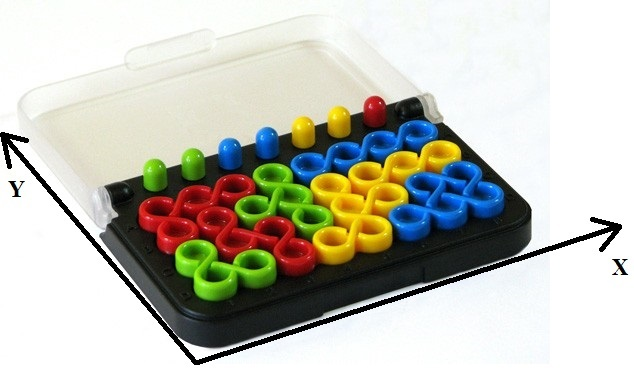
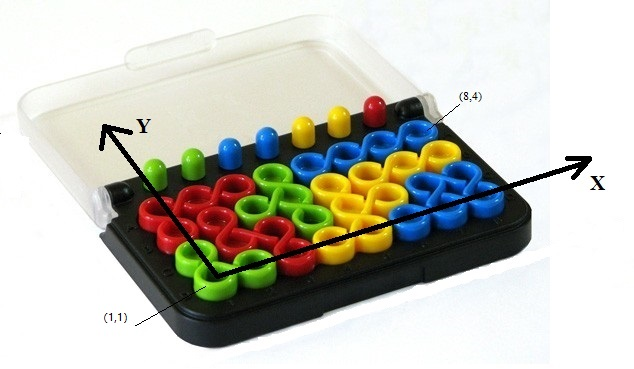
update the thesis

diff --git a/report/design.tex b/report/design.tex
@@ -8,6 +8,7 @@ Y=M.X,
 \end{equation}
 where $X$ is the input vector, $M$ is the rotation matrix and $Y$ is the output vector \cite{r15}. Therefore, the rotation matrices can be used to mathematically define rotations that can describe the placements for the pieces of the two games. The 2D rotation matrix is corresponding to IQ twist and the 3D rotation matrix is corresponding to ZIG ZAG Puzzler. In our case, only counter-clockwise rotations of 90, 180 and 270 degrees for both 2D (the xy-plane) and 3D (the xy-plane, the yz-plane and the xz-plane) will be considered.
 \subsection{2D Rotation Matrix}
+\label{section:2Drotationmatrix}
 Tobias and Krantz \cite{r9} mention that 2D rotation can be described by a matrix
 \begin{equation}
 R(\theta)=\begin{bmatrix}
@@ -55,6 +56,7 @@ In IQ twist, there exists mirroring operation, if a point flip over around the y
 \end{itemize}
 Therefore, there should be total 8 situations for each unit of pieces. However, there might be some special situations like x=1, y=1. In such a case, according to the 8 formulas, there are only 4 situations because 4 of them are repeated.
 \subsection{3D Rotation Matrix}
+\label{section:3Drotationmatrix}
 There are two forms to represent 3D rotations \cite{r9}. One is 3 separated matrices,
 \begin{equation}
 \begin{aligned}
@@ -180,7 +182,23 @@ and for $\beta=270^{\circ}$,
 &z'=x.
 \end{aligned}
 \end{equation}
-Because in our case, the domains of both $\alpha$ and $\gamma$ are $0^{\circ}$, $90^{\circ}$, $180^{\circ}$, $270^{\circ}$ and the period of the trigonometric function is $360^{\circ}$. For (3.14), the 4 situations are $\alpha-\gamma$=$0^{\circ}$ or $90^{\circ}$ or $180^{\circ}$ or $270^{\circ}$. For (3.15), the 4 situations are $\alpha+\gamma$=$0^{\circ}$ or $90^{\circ}$ or $180^{\circ}$ or $270^{\circ}$. Therefore, these 2 groups of formulas represent that there are only 4 situations for each of them. In other words, the separated $\alpha$ and $\gamma$ are meaningless. What we should consider is $\alpha-\gamma$ for (3.14) and $\alpha+\gamma$ for (3.15).\\ 
+Because in our case, the domains of both $\alpha$ and $\gamma$ are $0^{\circ}$, $90^{\circ}$, $180^{\circ}$, $270^{\circ}$ and the period of the trigonometric function is $360^{\circ}$. For (3.14), the 4 situations are $\alpha-\gamma$=$0^{\circ}$ or $90^{\circ}$ or $180^{\circ}$ or $270^{\circ}$. For (3.15), the 4 situations are $\alpha+\gamma$=$0^{\circ}$ or $90^{\circ}$ or $180^{\circ}$ or $270^{\circ}$.
+Therefore, these 2 groups of formulas represent that there are only 4 situations for each of them. In other words, the separated $\alpha$ and $\gamma$ are meaningless. What we should consider is $\alpha-\gamma$ for (3.14) and $\alpha+\gamma$ for (3.15). For (3.14), we assign 0,90,180 and 270 degrees to the $(\alpha-\gamma)$, we get
+\begin{itemize}
+  \item  $x'=-y\sin(0^{\circ})-z\cos(0^{\circ}),\hspace{5pt} y'=y\cos(0^{\circ})+z\sin(0^{\circ}),\hspace{5pt} z'=-x \\\implies x'=-z,\hspace{5pt} y'=y,\hspace{5pt} z'=-x$
+  \item  $x'=-y\sin(90^{\circ})-z\cos(90^{\circ}), \hspace{5pt} y'=y\cos(90^{\circ})+z\sin(90^{\circ}), \hspace{5pt} z'=-x\\\implies x'=-y,\hspace{5pt} y'=z,\hspace{5pt} z'=-x$
+  \item  $x'=-y\sin(180^{\circ})-z\cos(180^{\circ}), \hspace{5pt} y'=y\cos(180^{\circ})+z\sin(180^{\circ}), \hspace{5pt} z'=-x\\\implies x'=z,\hspace{5pt} y'=-y,\hspace{5pt} z'=-x$
+  \item  $x'=-y\sin(270^{\circ})-z\cos(270^{\circ}), \hspace{5pt} y'=y\cos(270^{\circ})+z\sin(270^{\circ}), \hspace{5pt} z'=-x\\\implies x'=y, \hspace{5pt}y'=-z,\hspace{5pt} z'=-x$.
+  \label{3Drotation24situations1}
+\end{itemize}
+For (3.15), we assign 0,90,180 and 270 degrees to the $(\alpha+\gamma)$, we get
+\begin{itemize}
+  \item  $x'=-y\sin(0^{\circ})-z\cos(0^{\circ}),\hspace{5pt} y'=y\cos(0^{\circ})-z\sin(0^{\circ}),\hspace{5pt} z'=-x \\\implies x'=-z,\hspace{5pt} y'=y,\hspace{5pt} z'=x$
+  \item  $x'=-y\sin(90^{\circ})-z\cos(90^{\circ}),\hspace{5pt} y'=y\cos(90^{\circ})-z\sin(90^{\circ}),\hspace{5pt} z'=-x\\\implies x'=-y,\hspace{5pt} y'=-z,\hspace{5pt} z'=x$
+  \item  $x'=-y\sin(180^{\circ})-z\cos(180^{\circ}),\hspace{5pt} y'=y\cos(180^{\circ})-z\sin(180^{\circ}),\hspace{5pt} z'=-x\\\implies x'=z,\hspace{5pt} y'=-y,\hspace{5pt} z'=x$
+  \item  $x'=-y\sin(270^{\circ})-z\cos(270^{\circ}),\hspace{5pt} y'=y\cos(270^{\circ})-z\sin(270^{\circ}),\hspace{5pt} z'=-x\\\implies x'=y, \hspace{5pt}y'=z,\hspace{5pt} z'=x$.
+  \label{3Drotation24situations2}
+\end{itemize}
 Then, we consider  $\beta=0^{\circ}$ and $\beta=180^{\circ}$. Based on (3.6), when $\beta=0^{\circ}$, we get
 \begin{equation}
 R=R_{z}(\alpha)R_{y}(0^{\circ})R_{x}(\gamma)=
@@ -226,11 +244,29 @@ which means that when $\beta=0^{\circ}$, regardless of the number of degrees of 
 &\circled{1},\circled{2}\implies R_{z}(270^{\circ})Ry(0^{\circ})R_{x}(270^{\circ})   = R_{z}(90^{\circ})R_{y}(180^{\circ})R_{x}(90^{\circ}).
 \end{aligned}
 \end{equation}
-Hence, all combinations among $\beta=0^{\circ}$, $\theta=0^{\circ}$ or $90^{\circ}$ or $180^{\circ}$ or $270^{\circ}$ and $\gamma=0^{\circ}$ or $90^{\circ}$ or $180^{\circ}$ or $270^{\circ}$ can be obtained from one combination among $\beta=180^{\circ}$, $\theta=0^{\circ}$ or $90^{\circ}$ or $180^{\circ}$ or $270^{\circ}$ and $\gamma=0^{\circ}$ or $90^{\circ}$ or $180^{\circ}$ or $270^{\circ}$. So we only need to consider the all situations when $\beta=0^{\circ}$ because the all situations in $\beta=180^{\circ}$ are duplicates. There should be a total of 16 situations (4$\times$4). Finally, consider the all situations in $\beta=90^{\circ}$,$\beta=270^{\circ}$,$\beta=^{\circ}0$ and $\beta=180^{\circ}$. There should be a total of 4+4+16=24 situations.
+Hence, all combinations among $\beta=0^{\circ}$, $\theta=0^{\circ}$ or $90^{\circ}$ or $180^{\circ}$ or $270^{\circ}$ and $\gamma=0^{\circ}$ or $90^{\circ}$ or $180^{\circ}$ or $270^{\circ}$ can be obtained from one combination among $\beta=180^{\circ}$, $\theta=0^{\circ}$ or $90^{\circ}$ or $180^{\circ}$ or $270^{\circ}$ and $\gamma=0^{\circ}$ or $90^{\circ}$ or $180^{\circ}$ or $270^{\circ}$. So we only need to consider the all situations when $\beta=0^{\circ}$ because the all situations in $\beta=180^{\circ}$ are duplicates. For (3.16) we assign $\theta=0^{\circ},\gamma=0^{\circ}$, $\theta=0^{\circ},\gamma=90^{\circ}$,...,$\theta=270^{\circ},\gamma=180^{\circ}$, $\theta=270^{\circ},\gamma=270^{\circ}$. we get
+\begin{itemize}
+  \item  $x'=x$, $y'=y$, $z'=z$  
+  \item  $x'=x$, $y'=-z$, $z'=y$ 
+  \item  $x'=x$, $y'=-y$, $z'=-z$ 
+  \item  $x'=x$, $y'=z$, $z'=-y$
+  \item  $x'=-y$, $y'=x$, $z'=z$
+  \item  $x'=z$, $y'=x$, $z'=y$
+  \item  $x'=y$, $y'=x$, $z'=-z$
+  \item  $x'=-z$, $y'=x$, $z'=-y$
+  \item  $x'=-x$, $y'=-y$, $z'=z$
+  \item  $x'=-x$, $y'=z$, $z'=y$
+  \item  $x'=-x$, $y'=y$, $z'=-z$
+  \item  $x'=-x$, $y'=-z$, $z'=-y$
+  \item  $x'=y$, $y'=-x$, $z'=z$
+  \item  $x'=-z$, $y'=-x$, $z'=y$
+  \item  $x'=-y$, $y'=-x$, $z'=-z$
+  \item  $x'=z$, $y'=-x$, $z'=-y$.
+  \label{3Drotation24situations3}
+\end{itemize}
+There should be a total of 16 situations (4$\times$4). Finally, consider the all situations in $\beta=90^{\circ}$,$\beta=270^{\circ}$,$\beta=^{\circ}0$ and $\beta=180^{\circ}$. There should be a total of 4+4+16=24 situations.
 \section{IQ Twist}
-In this part, the design of CSP model for IQ twist will be discussed. 
-\subsection{Variables}
-Above all, the initial state of each piece is defined in Figure~\ref{fig:allinit}. For this method, there are some rules. Firstly, all the variables are corresponding to the specific units. Such as the yellow2, Figure~\ref{fig:namerules} shows that the $V_{y21}$ is used to represent the left and bottom unit. For other variables, we name them as $V_{y22}$, $V_{y23}$, $V_{y24}$ and $V_{y25}$, which follows the order from left to right and bottom-up. In addition, there are 7 pegs. Therefore, the variables can be represented as \VUnits and \VPegs.
+In this part, the design of CSP model for IQ twist will be discussed. Above all, the initial state of each piece is defined in Figure~\ref{fig:allinit}.
 \begin{figure}[htbp]
 \begin{subfigure}[b]{.24\textwidth}
 \centering
@@ -283,35 +319,44 @@ Above all, the initial state of each piece is defined in Figure~\ref{fig:allinit
 \caption{Initial state of each piece}
   \label{fig:allinit}
 \end{figure}
+\subsection{Variables}
+ For this model, there are some rules. Firstly, all the variables are corresponding to the specific units. As an example, for piece yellow2, Figure~\ref{fig:namerules} shows that the $V_{y21}$ is used to represent the left and bottom unit. For other variables, we name them as $V_{y22}$, $V_{y23}$, $V_{y24}$ and $V_{y25}$, which follows the order from left to right and bottom-up. In addition, there are 7 pegs. Therefore, the variables can be represented as \VUnits and \VPegs,
+\begin{equation}
+\begin{aligned}
+\VUnits=\{&V_{y11},V_{y12},V_{y13},\\&V_{y21},V_{y22},V_{y23},V_{y24},V_{y25},\\&V_{b11},V_{b12},V_{b13},V_{b14},
+V_{b15},\\&V_{b21},V_{b22},V_{b23},V_{b24},\\&V_{g11},V_{g12},V_{g13},V_{g14},\\&V_{g21},V_{g22},V_{g23},\\&V_{r11},
+V_{r12},V_{r13},V_{r14},\\&V_{r21},V_{r22},V_{r23},V_{r24}\},\\
+\\\VPegs = \{&V_{py1}, V_{py2}, V_{pb1}, V_{pb2}, V_{pg1}, V_{pg2}, V_{pr}\},\\
+\\V = &\VUnits \cup \VPegs.
+\end{aligned}
+\end{equation}
 \begin{figure}[htbp]
     \centering
     \includegraphics[width=0.3\textwidth]{figs/example.jpg}
     \caption{Name rules for yellow2}
     \label{fig:namerules}
 \end{figure}
-\begin{equation}
-\begin{aligned}
-\VUnits=\{&V_{y11},V_{y12},V_{y13},\\&V_{y21},V_{y22},V_{y23},V_{y24},V_{y25},\\&V_{b11},V_{b12},V_{b13},V_{b14},
-V_{b15},\\&V_{b21},V_{b22},V_{b23},V_{b24},\\&V_{g11},V_{g12},V_{g13},V_{g14},\\&V_{g21},V_{g22},V_{g23},\\&V_{r11},
-V_{r12},V_{r13},V_{r14},\\&V_{r21},V_{r22},V_{r23},V_{r24}\}\\
-\\\VPegs = \{&V_{py1}, V_{py2}, V_{pb1}, V_{pb2}, V_{pg1}, V_{pg2}, V_{pr}\}\\
-\\V = &\VUnits \cup \VPegs.
-\end{aligned}
-\end{equation}
 \subsection{Domains}
-For the board, Figure~\ref{fig:coordinate} shows that the 2D coordinate system is used to represent the positions. In our model, the left and bottom position as (0,0) and the right and top as (8,4). So, all placements will be between them. The pegs are special because they can be put in any places on the board or not on the board.
 \begin{figure}[htbp]
 \centering
 \includegraphics[width=0.8\textwidth]{figs/IQtwistboard.jpg}
 \caption{The coordinate system for IQ twist}
     \label{fig:coordinate}
 \end{figure}
+For the board, Figure~\ref{fig:coordinate} shows that the 2D coordinate system is used to represent the positions. In our model, all positions are represented as tuples and the elements in the tuples are int. And each tuple contains 2 int. The left and bottom position as $(1,1)$ and the right and top as $(8,4)$. So, all placements will be between them. Considering a position $(x_{0},y_{0})$, we get
 \begin{equation}
 \begin{aligned}
-&\forall  v \in \VUnits \hspace{1ex},\hspace{1ex} D(v)=\{(i,j) \in \mathbb{Z} \times \mathbb{Z}	\mid  0<i \leq 8 \hspace{1ex} , \hspace{1ex} 0<j \leq 4\}\\
-\\
-&\forall  v \in \VPegs \hspace{1ex},\hspace{1ex} D(v)=\{(0,0)\} \hspace{1ex} \cup \hspace{1ex}\{(i,j) \in \mathbb{Z} \times \mathbb{Z}\mid  0<i \leq 8 \hspace{1ex} , \hspace{1ex} 0<j \leq 4\}
+&0<x_{0} \leq 8\\
+&0<y_{0} \leq 4.
 \end{aligned}
+\end{equation}
+The placements for each unit of pieces must on the board, therefore, we get
+\begin{equation}
+\forall  v \in \VUnits \hspace{1ex},\hspace{1ex} D(v)=\{(i,j) \in \mathbb{Z} \times \mathbb{Z}	\mid  0<i \leq 8 \hspace{1ex} , \hspace{1ex} 0<j \leq 4\}.\\
+\end{equation}
+The pegs are special because they can be put in any places on the board or not on the board. So, the domain of pegs is
+\begin{equation}
+\forall  v \in \VPegs \hspace{1ex},\hspace{1ex} D(v)=\{(0,0)\} \hspace{1ex} \cup \hspace{1ex}\{(i,j) \in \mathbb{Z} \times \mathbb{Z}\mid  0<i \leq 8 \hspace{1ex} , \hspace{1ex} 0<j \leq 4\}.
 \end{equation}
 \subsection{Constrains}
 Firstly, there should be no 2 different unit variables contain the same value
@@ -329,17 +374,17 @@ Similarly, there should be no 2 different reg variables contain the same value e
 &\{((0,0),(0,0))\}.
 \end{aligned}
 \end{equation}
-In Figure~\ref{fig:explanation2D}, the unit which is corresponding to the first variable ($V_{y21}$) will be considered as a point $(x,y)$. Therefore, the $V_{y21}$, $V_{y22}$, $V_{y23}$, $V_{y24}$ and $V_{y25}$ are respectively represented as $(x,y)$, $(x+1,y)$, $(x+1,x+1)$, $(x+2,y+1)$ and $(x+1,y+2)$, which indicates that all other variables are connection with the first variables.
+In Figure~\ref{fig:explanation2D}, the unit which is corresponding to the first variable ($V_{y21}$) will be considered as a point $(x,y)$. Therefore, the $V_{y21}$, $V_{y22}$, $V_{y23}$, $V_{y24}$ and $V_{y25}$ are respectively represented as $(x,y)$, $(x+1,y)$, $(x+1,x+1)$, $(x+2,y+1)$ and $(x+1,y+2)$, which indicate that all other variables are connection with the first variables.
 \begin{figure}[htbp]
 \centering
-\includegraphics[width=0.5\textwidth]{figs/explanation2D.jpg}
+\includegraphics[width=0.8\textwidth]{figs/explanation2D.jpg}
 \caption{The explanation of 2D rotation}
     \label{fig:explanation2D}
 \end{figure}
-Therefore, all other placements can get from the initial state of the piece by rotations around the unit of $V_{y21}$. According to Chapter 3.1.1, there are 8 rotation situations.Figure~\ref{fig:Exampleof8} points out all placements for yellow2.
+Therefore, all other placements can get from the initial state of the piece by rotations around the unit of $V_{y21}$. According to Chapter~\ref{section:2Drotationmatrix}, there are 8 rotation situations. Figure~\ref{fig:Exampleof8} points out all placements for yellow2.
 \begin{figure}[htbp]
 \centering
-\includegraphics[width =\textwidth]{figs/domainexplain.jpg}
+\includegraphics[width =0.9\textwidth]{figs/domainexplain.jpg}
     \caption{Example of 8 situations}
     \label{fig:Exampleof8}
 \end{figure}
@@ -366,21 +411,19 @@ Therefore, all other placements can get from the initial state of the piece by r
 \\&x_{4} = x_{1}+1,\hspace{1ex}y_{4} = y_{1}+2,\hspace{1ex}x_{5} = x_{1}+2,\hspace{1ex}y_{5} = y_{1}+1)\hspace{3ex}\}.
 \end{aligned}
 \end{equation}
-Similarly, every piece can get the similar constraints (Appendix~\ref{appendix:2Dpieces}).
-. Furthermore, for the pegs, unless they are not on the board, there must be a hollow unit of pieces which contains the same color with the pegs to match them. As an example, for yellow peg1,
+Similarly, every piece can get the similar constraints (Appendix~\ref{appendix:2Dpieces}). Furthermore, for the pegs, unless they are not on the board, there must be a hollow unit of pieces which contains the same color with the pegs to match them. As an instance, for yellow peg1, there are 4 hollow units of yellow pieces, So,
 \begin{equation}
 \begin{aligned}  
 \Constraint{py1} = &\{((x_{1},y_{1}),(x_{2},y_{2}))\in \Domain{py1} \times \Domain{y11}\mid x_{2} = x_{1} \hspace{1ex} , \hspace{1ex}  y_{2} = y_{1}\}\hspace{1ex} \cup  
 \\&\{((x_{1},y_{1}),(x_{2},y_{2}))\in \Domain{py1} \times \Domain{y21}\mid x_{2} = x_{1} \hspace{1ex} , \hspace{1ex}  y_{2} = y_{1}\}\hspace{1ex} \cup 
 \\&\{ ((x_{1},y_{1}),(x_{2},y_{2}))\in \Domain{py1} \times \Domain{y22}\mid x_{2} = x_{1} \hspace{1ex} , \hspace{1ex}  y_{2} = y_{1}\}\hspace{1ex}\cup 
 \\& \{((x_{1},y_{1}),(x_{2},y_{2}))\in \Domain{py1} \times \Domain{y24}\mid x_{2} = x_{1} \hspace{1ex} , \hspace{1ex}  y_{2} = y_{1}\} \hspace{1ex}\cup
-\\& \{(0,0)\},
+\\& \{(0,0)\}.
 \end{aligned}
 \end{equation}
 Similarly, every peg can get the similar constraints (Appendix~\ref{appendix:2Dpegs}).
 \section{ZIG ZAG Puzzler}
-In this part, the designs of CSP models for ZIG ZAG Puzzler will be discussed. For the ZIG ZAG Puzzler, there are 2 playing modes, which uses the same pieces but different boards. On the condition of the two coordinates based on the same system which means both of them adopt right-hand system or left-hand system, both of them will adopt the same variables and the same constraints but different domains.
-\subsection{Variables}
+\label{section:3Dgame}
 \begin{figure}[htbp]
 \centering
 \begin{subfigure}[b]{0.25\textwidth}
@@ -440,7 +483,9 @@ In this part, the designs of CSP models for ZIG ZAG Puzzler will be discussed. F
 \caption{Initial state of each piece}
   \label{fig:all3Dinit}
 \end{figure}
-Firstly, the initial state of each piece is defined in Figure~\ref{fig:all3Dinit}. Similar to 2D rotation, all the variables are corresponding to the specific units. Therefore, the variables can be defined as
+In this part, the designs of CSP models for ZIG ZAG Puzzler will be discussed. For the ZIG ZAG Puzzler, there are 2 playing modes, which uses the same pieces but different boards. On the condition of the two coordinates based on the same system which means both of them adopt right-hand system or left-hand system, both of them can adopt the same variables and the same constraints but different domains. In our case, we adopt right-hand system. Firstly, the initial state of each piece is defined in Figure~\ref{fig:all3Dinit}.
+\subsection{Variables}
+Similar to IQ twist, Figure~\ref{fig:all3Dinit} shows all the variables are corresponding to the specific units. Therefore, the variables can be defined as
 \begin{equation}
 \begin{aligned}
 \VUnits=\{&V_{y1},V_{y2},V_{y3},V_{y4},\\&V_{b11},V_{b12},V_{b13},V_{b14},
@@ -449,33 +494,91 @@ V_{r12},V_{r13},\\&V_{r21},V_{r22},V_{r23},\\&V_{o1},V_{o2},V_{o3},V_{o4},\\&V_{
 \end{aligned}
 \end{equation}
 \subsection{Domains for Playing Mode 1 and 2}
-Figure~\ref{fig:boards} shows how to represent the positions of the board.
-\label{sec:playing mode 1}
+\label{sec:3Ddomains}
+Figure~\ref{fig:board1} and Figure~\ref{fig:board2} show how to create the coordinates for both modes to represent the positions of the boards. For both modes, similar to IQ twist, the positions are represented as tuples and the elements in tuples are int. But each tuple will contain 3 int. The unit of piece which is located in the origin of coordinate can be represented as $(1,1,1)$. So Considering one position $(x_{0},y_{0},z_{0})$.
 \begin{figure}[htbp]
 \centering
-\begin{subfigure}[b]{.45\textwidth}
+\begin{subfigure}[b]{.4\textwidth}
 \centering
 \includegraphics[width=\textwidth]{figs/ZIGZAGmodel1board.jpg}
-\caption{The board of ZIA ZAG Puzzler mode1}
-  \label{fig:3Dmodelboard1}
+\caption{}
+\label{figure:mode1A}
 \end{subfigure}
-\begin{subfigure}[b]{.45\textwidth}
+\begin{subfigure}[b]{.4\textwidth}
 \centering
-\includegraphics[width=\textwidth]{figs/ZIGZAGmodel2board.jpg}
-\caption{The board of ZIA ZAG Puzzler mode2}
-  \label{fig:3Dmodelboard2}
+\includegraphics[width=\textwidth]{figs/3Dboard1.jpg}
+\caption{}
+\label{figure:mode1B}
 \end{subfigure}
-\caption{The boards of ZIA ZAG Puzzler}
-  \label{fig:boards}
+\caption{The board of ZIA ZAG Puzzler mode1}
+  \label{fig:board1}
 \end{figure}
-The domain of playing mode1 is
+\\For playing mode1, as is shown in Figure~\ref{fig:board1}, the maximum number for each axis is 5, hence,
+\begin{equation}
+\begin{aligned}
+&0<x_{0}\leq5,\\
+&0<y_{0}\leq5,\\
+&0<z_{0}\leq5.
+\end{aligned}
+\end{equation}
+If it is located in one of the 3 plane. Such as xy-plane $(x_{0},y_{0},1)$, it will satisfy
+\begin{equation}
+x_{0}+y_{0}\leq6.
+\end{equation}
+Accordingly, it will satisfy 
+\begin{equation}
+x_{0}+z_{0}\leq6
+\end{equation}
+in xz-plane and 
+\begin{equation}
+y_{0}+z_{0}\leq6
+\end{equation}
+in yz-plane. In addition, Figure~\ref{figure:mode1B} shows that all the units that are not in the 3 planes are close to one of the three planes, which means it's a unit of distance to one of the three plane. So we get
+\begin{equation}
+x_{0}+y_{0}+z_{0}\leq7.
+\end{equation}
+Because what we discussed above has included all positions, the domain of playing mode1 is
 \begin{equation}
 \begin{aligned}
 &\forall \hspace{1ex} v \in \VUnits,\\
 &D(v)=\{(x,y,z) \in \mathbb{Z} \times \mathbb{Z}	\times \mathbb{Z} \mid  0<x \leq 5, \hspace{1ex} 0<y \leq 5,\hspace{1ex} 0<z \leq 5,\\ &x+y\leq 6,\hspace{1ex} y+z\leq 6,\hspace{1ex}x+z\leq 6,\hspace{1ex}x+y+z\leq 7\}.
 \end{aligned}
 \end{equation}
-and the domain of playing mode2 is:
+\begin{figure}[htbp]
+\centering
+\begin{subfigure}[b]{.4\textwidth}
+\centering
+\includegraphics[width=\textwidth]{figs/ZIGZAGmodel2board.jpg}
+\caption{}
+\label{fig:board2A}
+\end{subfigure}
+\begin{subfigure}[b]{.4\textwidth}
+\centering
+\includegraphics[width=\textwidth]{figs/3Dboard2.jpg}
+\caption{}
+\label{fig:board2B}
+\end{subfigure}
+\caption{The boards of ZIA ZAG Puzzler mode2}
+  \label{fig:board2}
+\end{figure}
+For playing mode2, Figure~\ref{fig:board2} shows that the max number for both y-axis and z-axis are 4 and x-axis is 5, which can be represented as 
+\begin{equation}
+\begin{aligned}
+&0<x_{0}\leq5,\\
+&0<y_{0}\leq4,\\
+&0<z_{0}\leq4.
+\end{aligned}
+\end{equation}
+In addition, the board is similar to stairs, so we can get
+\begin{equation}
+y_{0}=z_{0}.
+\end{equation}
+Besides the part that is similar to stairs, the left space satisfy 
+\begin{equation}
+y_{0}=z_{0}+1,
+\end{equation}
+except when z=4.
+Therefore, the domain of playing mode2 is
 \begin{equation}
 \begin{aligned}
 &\forall v \in \VUnits,\\
@@ -484,7 +587,10 @@ and the domain of playing mode2 is:
 \end{aligned}
 \end{equation}
 \subsection{Constraints}
-Similar to 2D rotation, the basic idea of 3D rotation is all other units of pieces rotate around the first unit of pieces. 
-\section{Summary}
-Same as the last chapter, summarize what you discussed in this chapter and
-be a bridge to next chapter.
+\begin{figure}[htbp]
+\centering
+\includegraphics[width=0.5\textwidth]{figs/3Drotateexplain.jpg}
+\caption{3Dblue1 initial state}
+\label{fig:3Dblue1explanation}
+\end{figure}
+As is shown in Figure~\ref{fig:3Dblue1explanation}, the unit which is corresponding to the first variable ($V_{b11}$) will be considered as a point $(x,y,z)$. Therefore, the $V_{b11}$, $V_{b12}$, $V_{b13}$, $V_{b14}$ and $V_{b15}$ are respectively represented as $(x,y,z)$, $(x-1,y,z)$, $(x-1,y+1,z)$, $(x,y,-z)$ and $(x-1,y,z-1)$, which indicate that all other variables are connection with the first variables. Similar to 2D rotation, the basic idea of 3D rotation is all other units of pieces rotate around the first unit of pieces. According to chapter~\ref{section:3Drotationmatrix}, there are 24 rotation situations.

diff --git a/report/background.tex b/report/background.tex
@@ -37,7 +37,7 @@ A Minizinc problem consists of two parts: the structure of the problem is corres
   \item Global Constraints: 'globals.mzn' which includes all global constraints.
 \end{compactenum}
 In my case, the "$\vee$", "$\wedge$", "mod", "div", "alldifferent.mzn" from "globals.mzn", "set of int" and some functions have been used.\\
-For Figure~\ref{fig:minizincexample1}, the contents in line 1 are notes, which usually start from "\%". They provide more explanations for reader to understand the contents. The contents in line 2 aim to call "alldifferent.mzn", which contains "alldifferent" constraint. The "globals.mzn" can replace "alldifferent.mzn" because it contains all global constraints. Accordingly, in Figure~\ref{fig:minizincexample2}, line 34 call the constraint. From line 3 to line 4, the functions are defined by the user. From line 5 to 18, all variables and corresponding types has been defined. As an example, "var position: Vb11;" means Vb11 is a variable, and the type of Vb11 is position. Therefore, the domain of Vb11 is the elements in position. In addition, for the constraints, they support many operations and the functions can be used. 
+For Figure~\ref{fig:minizincexample1}, the contents in line 1 are notes, which usually start from "\%". They provide more explanations for reader to understand the codes. The contents in line 2 aim to call "alldifferent.mzn", which contains "alldifferent" constraint. The "alldifferent.mzn" can be replaced by "globals.mzn" that contains all global constraints. Accordingly, in Figure~\ref{fig:minizincexample2}, line 34 call the constraint. From line 3 to line 4, the functions are defined by the user. From line 5 to 18, all variables and corresponding types has been defined. As an example, "var position: Vb11;" means Vb11 is a variable, and the type of Vb11 is position. Therefore, the domain of Vb11 is the elements in position. In addition, for the constraints, they support many operations as well as the functions. 
 \begin{figure}[htbp]
 \centering
 \begin{subfigure}[b]{.48\textwidth}

diff --git a/ZIGZAGpuzzler/beta=0.py b/ZIGZAGpuzzler/beta=0.py
@@ -1,0 +1,23 @@
+# -*- coding: utf-8 -*-
+"""
+Created on Mon Oct  5 05:10:17 2020
+
+@author: Mingzhen Ao
+"""
+
+import math 
+def calculate(a,g):
+    x='x='+str(int(math.cos(a)))+'x+'+str(int((-math.sin(a)))*int((math.cos(g))))+'y+'+str(int(math.sin(a))*int(math.sin(g)))+'z'
+    y='y='+str(int(math.sin(a)))+'x+'+str(int(math.cos(a))*int(math.cos(g)))+'y+'+str(int(-math.cos(a))*int(math.sin(g)))+'z'
+    z='z='+str(int(math.sin(g)))+'y+'+str(int(math.cos(g)))+'z'
+    print(x)
+    print(y)
+    print(z)
+alpha=[0,math.pi/2,math.pi,math.pi*3/2]
+gamma=[0,math.pi/2,math.pi,math.pi*3/2]
+i=1
+for a in alpha:
+    for g in gamma:
+        print(i)
+        calculate(a,g)
+        i+=1
